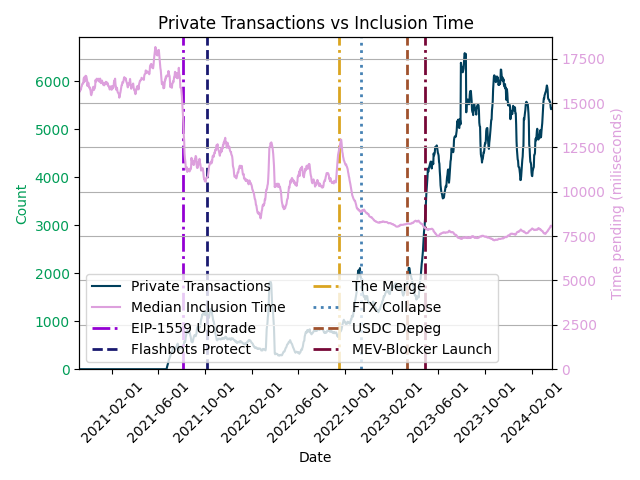
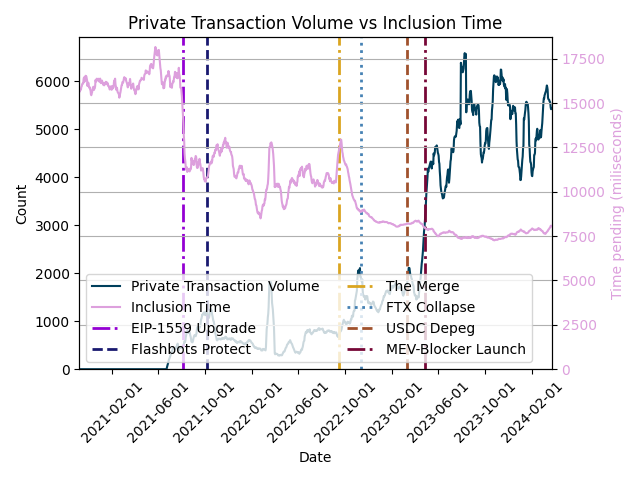
update plots for rq4

diff --git a/section_5/5.4_damage/inclusion_time.py b/section_5/5.4_damage/inclusion_time.py
@@ -26,17 +26,17 @@ def plot_data(data, filepath):
     fig, ax1 = plt.subplots()
 
     ax2 = ax1.twinx()
-    line1, = ax1.plot(data['block_date'], data['private_tx_count'], linestyle='-', color='#003f5c', label='Private Transactions') # deep blue
-    line2, = ax2.plot(data['block_date'], data['median_timepending'], linestyle='-', color='#DDA0DD', label='Median Inclusion Time') # plum
+    line1, = ax1.plot(data['block_date'], data['private_tx_count'], linestyle='-', color='#003f5c', label='Private Transaction Volume') # deep blue
+    line2, = ax2.plot(data['block_date'], data['median_timepending'], linestyle='-', color='#DDA0DD', label='Inclusion Time') # plum
 
     ax1.set_xlabel('Date')
-    ax1.set_ylabel('Count', color='#009d57')
+    ax1.set_ylabel('Count', color='black')
     ax2.set_ylabel('Time pending (miliseconds)', color='#DDA0DD')
 
-    ax1.tick_params(axis='y', labelcolor='#009d57')
+    ax1.tick_params(axis='y', labelcolor='black')
     ax2.tick_params(axis='y', labelcolor='#DDA0DD')
 
-    plt.title('Private Transactions vs Inclusion Time')
+    plt.title('Private Transaction Volume vs Inclusion Time')
     ax1.set_xlim(left=data['block_date'].min(), right=data['block_date'].max())
     ax1.set_ylim(0)
     ax2.set_ylim(0)

diff --git a/section_5/5.4_damage/gasprice.py b/section_5/5.4_damage/gasprice.py
@@ -25,17 +25,17 @@ def plot_data(data, filepath):
     fig, ax1 = plt.subplots()
 
     ax2 = ax1.twinx()
-    line1, = ax1.plot(data['block_date'], data['private_tx_count'], linestyle='-', color='#003f5c', label='Private Transactions') # deep blue
+    line1, = ax1.plot(data['block_date'], data['private_tx_count'], linestyle='-', color='#003f5c', label='Private Transaction Volume') # deep blue
     line2, = ax2.plot(data['block_date'], data['median_gasprice_gwei'], linestyle='-', color='#cd7f32', label='Gas Price') # bronze
 
     ax1.set_xlabel('Date')
-    ax1.set_ylabel('Count', color='#009d57')
+    ax1.set_ylabel('Count', color='black')
     ax2.set_ylabel('Gas Price (Gwei)', color='#cd7f32')
 
-    ax1.tick_params(axis='y', labelcolor='#009d57')
+    ax1.tick_params(axis='y', labelcolor='black')
     ax2.tick_params(axis='y', labelcolor='#cd7f32')
 
-    plt.title('Private Transactions vs Gas Prices')
+    plt.title('Private Transaction Volume vs Gas Prices')
     ax1.set_xlim(left=data['block_date'].min(), right=data['block_date'].max())
     ax1.set_ylim(0)
     ax2.set_ylim(0)

diff --git a/section_5/5.3_post_merge/5.3.1_private_ofa/private_ofa.py b/section_5/5.3_post_merge/5.3.1_private_ofa/private_ofa.py
@@ -13,8 +13,10 @@ def aggregate_data(data):
     data_by_date = data.groupby('block_date').agg({
         'private_tx_count' : 'sum',
         'fb_postmerge_tx_count': 'sum',
+        'public_tx_count' : 'sum',
     }).reset_index()
     data_by_date['private_tx_count'] = data_by_date['private_tx_count'].rolling(window=14, min_periods=7, center=True).mean()
+    data_by_date['public_tx_count'] = data_by_date['public_tx_count'].rolling(window=14, min_periods=7, center=True).mean()
     data_by_date['fb_postmerge_tx_count'] = data_by_date['fb_postmerge_tx_count'].rolling(window=14, min_periods=7, center=True).mean()
     return data_by_date
 
